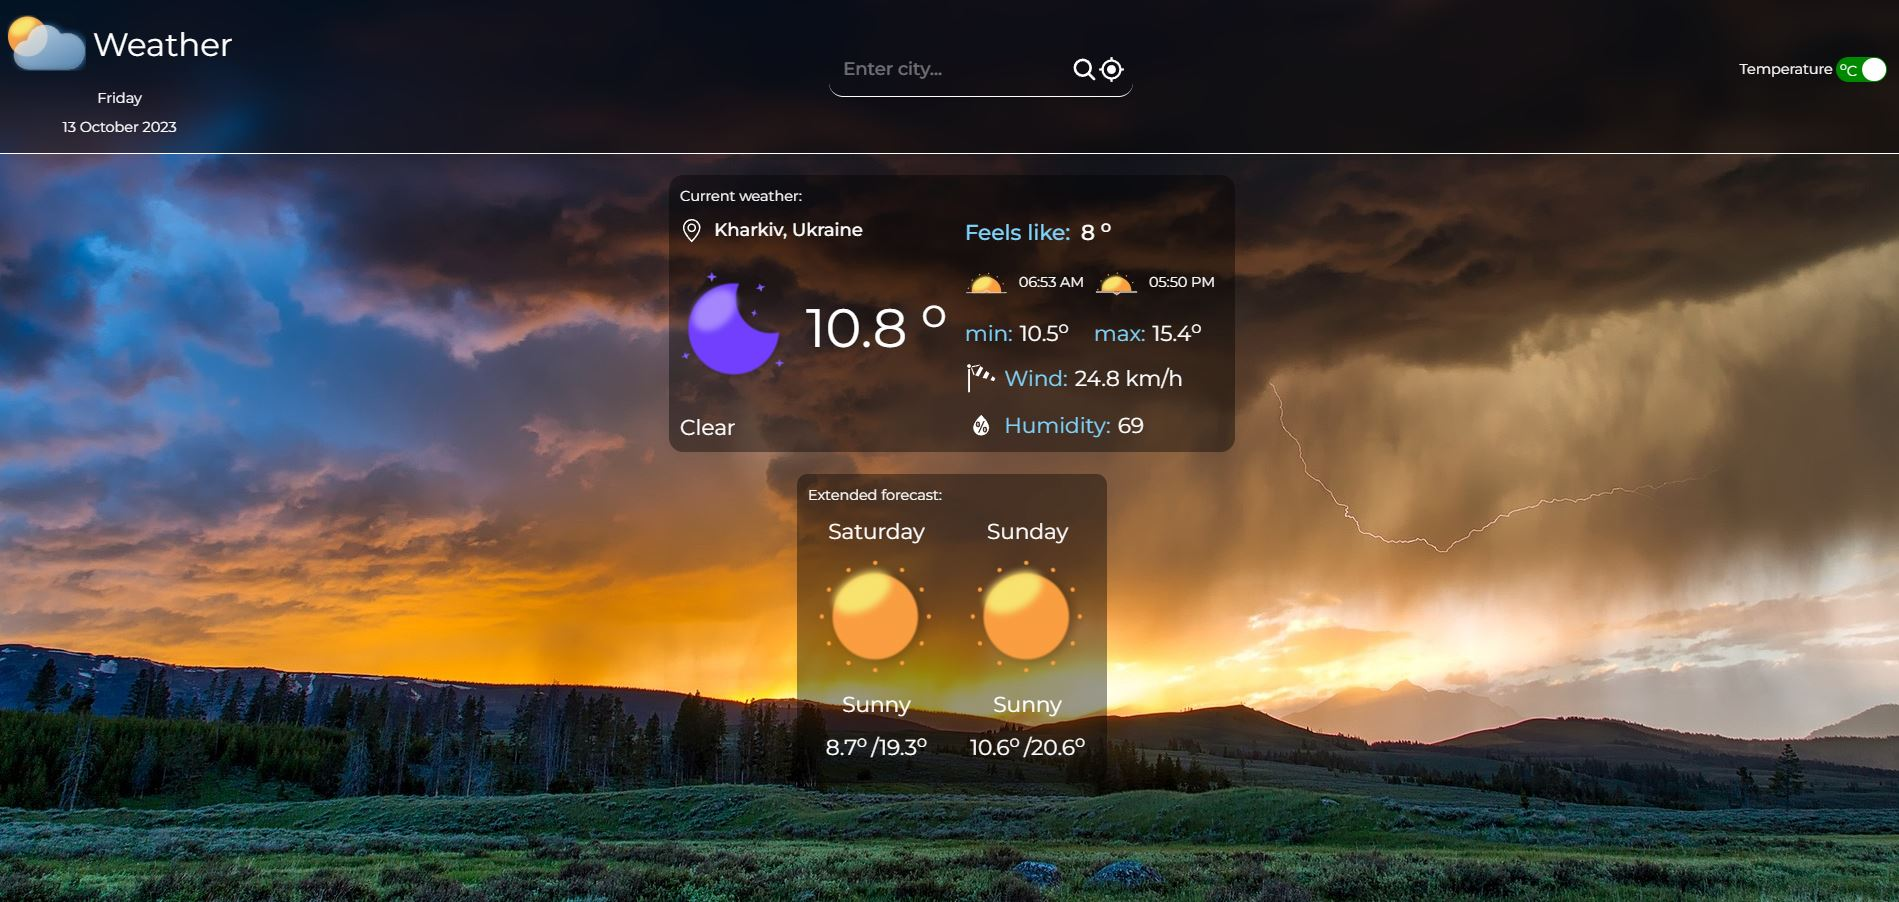
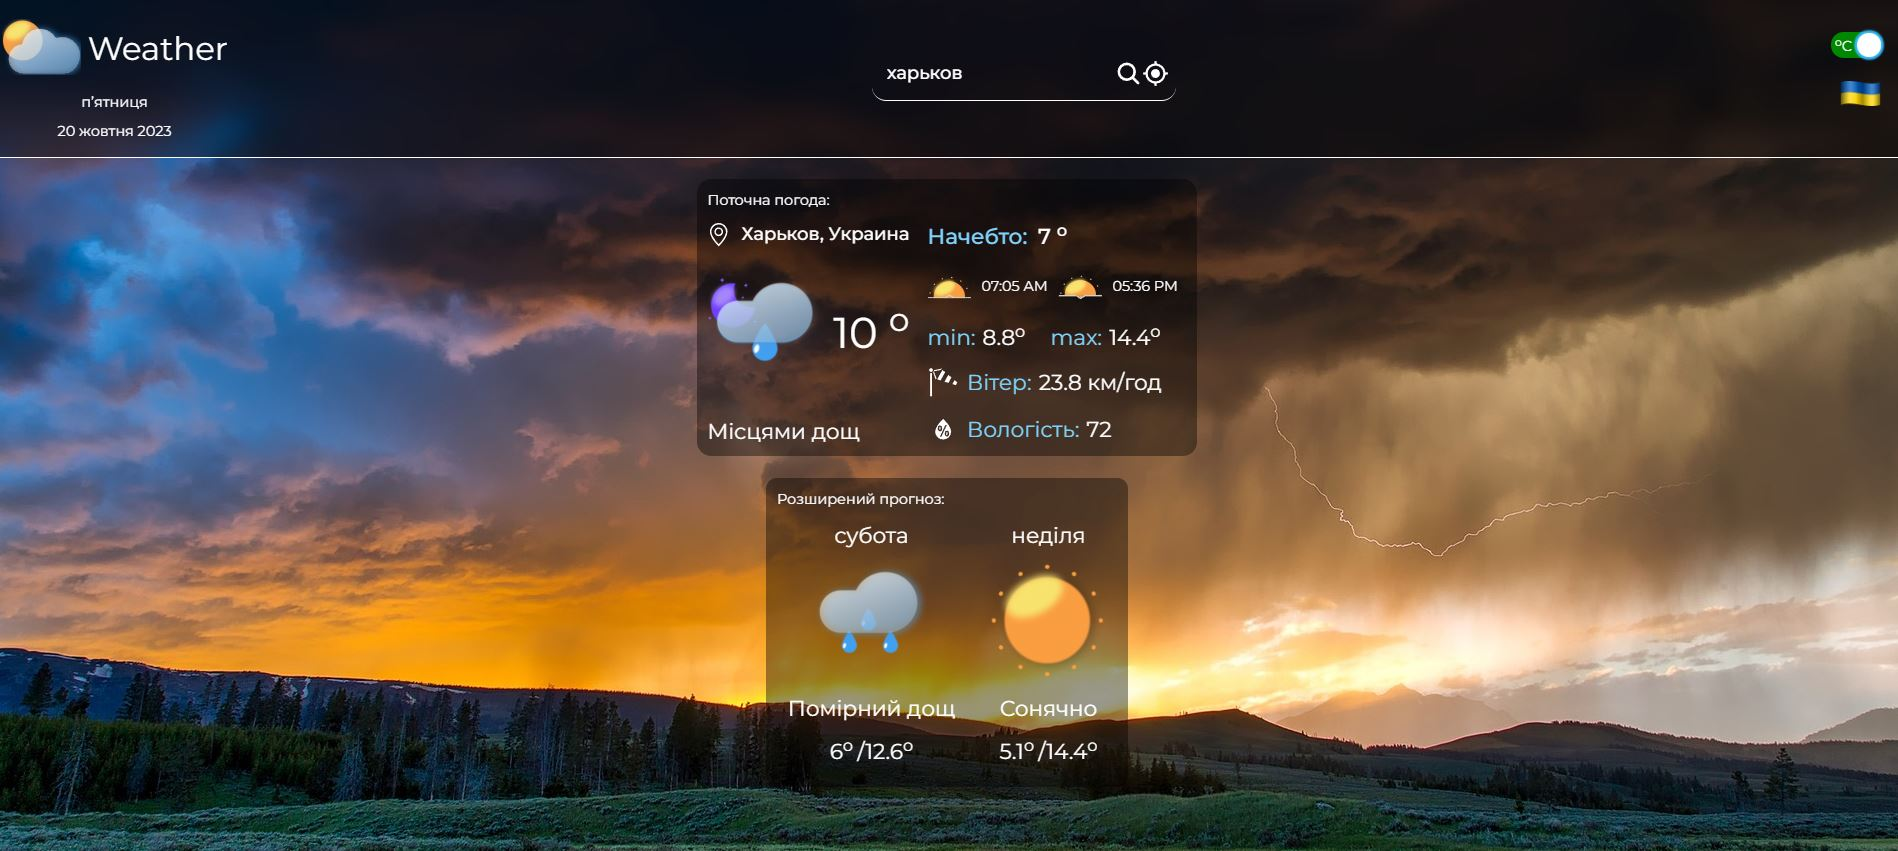
add localization

diff --git a/src/components/Current/Current.jsx b/src/components/Current/Current.jsx
@@ -17,6 +17,8 @@ import {
 
 import { getWeatherIcon } from "../../utils/getWeatherIcon";
 
+import { useTranslation } from "react-i18next";
+
 const animation = {
   hidden: { x: -100, opacity: 0 },
   visible: (custom) => ({
@@ -31,6 +33,8 @@ export default function Current() {
   const current = useSelector(SelectCurrent);
   const forecast = useSelector(SelectForecast);
   const isCelsius = useSelector(SelectIsCelsius);
+
+  const { t } = useTranslation();
 
   const { name, country } = location;
 
@@ -58,7 +62,7 @@ export default function Current() {
       custom={1}
       className="rounded-2xl flex flex-col max-w-[320px] sm:max-w-[640px] bg-black/40 text-white p-3"
     >
-      <h3>Current weather:</h3>
+      <h3>{t("current_title")}:</h3>
       <div className="flex flex-col pt-3 sm:flex-row gap-5 justify-between">
         <div className="flex flex-col items-start justify-between">
           <div className="flex gap-3 items-center">
@@ -85,7 +89,7 @@ export default function Current() {
         {/* другая сторона */}
         <div className="flex w-72 flex-col items-center sm:items-start gap-4">
           <div className="flex gap-3 text-2xl font-medium">
-            <p className="text-sky-300">Feels like:</p>
+            <p className="text-sky-300">{t("feels")}:</p>
             <p>
               {isCelsius ? feelslike_c : feelslike_f} <sup>o</sup>
             </p>
@@ -132,12 +136,15 @@ export default function Current() {
           </div>
           <div className="flex items-center  text-2xl gap-2">
             <GiWindsock size={36} />
-            <span className="text-sky-300">Wind: </span>
-            <p> {wind_kph} km/h</p>
+            <span className="text-sky-300">{t("wind")}: </span>
+            <p>
+              {" "}
+              {wind_kph} {t("km")}
+            </p>
           </div>
           <div className="flex items-center  text-2xl gap-2">
             <WiHumidity size={36} />{" "}
-            <span className="text-sky-300">Humidity: </span>
+            <span className="text-sky-300">{t("humidity")}: </span>
             <p>{humidity}</p>
           </div>
         </div>

diff --git a/src/components/Forecast/Forecast.jsx b/src/components/Forecast/Forecast.jsx
@@ -1,11 +1,14 @@
 import { useSelector } from "react-redux";
 import { SelectForecast } from "../../redux/weather/weatherSelectors";
 import { SelectIsCelsius } from "../../redux/setting/settingSelectors";
+import { SelectLang } from "../../redux/setting/settingSelectors";
 
 import weekDay from "../../utils/getWeekDay";
 import { forecastGetWeatherIcon } from "../../utils/forecastGetWeatherIcon";
 
 import { motion } from "framer-motion";
+
+import { useTranslation } from "react-i18next";
 
 const animation = {
   hidden: { x: 100, opacity: 0 },
@@ -19,7 +22,9 @@ const animation = {
 export default function Forecast() {
   const forecast = useSelector(SelectForecast);
   const isCelsius = useSelector(SelectIsCelsius);
+  const lang = useSelector(SelectLang);
   const newForecast = forecast.slice(1);
+  const { t } = useTranslation();
 
   const elements = newForecast.map(
     ({
@@ -36,7 +41,7 @@ export default function Forecast() {
         key={date}
         className="text-2xl max-w-full flex flex-col gap-4 items-center border-white first:border-b-[1px] sm:max-w-xs sm:first:border-b-0 p-3"
       >
-        <p>{weekDay(date)}</p>
+        <p>{weekDay(date, lang)}</p>
         <div
           className=" w-32 h-32"
           style={{
@@ -63,7 +68,7 @@ export default function Forecast() {
       custom={1}
       className=" bg-black/40 text-white p-3 rounded-xl"
     >
-      <h3>Extended forecast:</h3>
+      <h3>{t("forecast_title")}:</h3>
       <ul className="flex flex-col max-w-xs sm:max-w-full sm:flex-row sm:gap-4">
         {elements}
       </ul>

diff --git a/src/components/Header/SearchForm/SearchForm.jsx b/src/components/Header/SearchForm/SearchForm.jsx
@@ -9,15 +9,20 @@ import findCityByIp from "../../../api/findCityByIp";
 
 import CityList from "../../CityList/CityList";
 
+//localization
+import { useTranslation } from "react-i18next";
+
 export default function SearchForm() {
   const [q, setQ] = useState("");
   const [isHover, setIsHover] = useState(false);
   const dispatch = useDispatch();
 
+  const { t } = useTranslation();
+
   const handlerSubmit = (e) => {
     e.preventDefault();
     if (!q) {
-      toast.warn("Please, enter name of city...");
+      toast.warn(`{t("header.warn")}`);
     }
     dispatch(setQuery(q));
     setQ("");
@@ -46,7 +51,7 @@ export default function SearchForm() {
         name="query"
         value={q}
         type="text"
-        placeholder="Enter city..."
+        placeholder={t("header_placeholder")}
         autoComplete="off"
         className="w-full outline-0 bg-transparent py-2 px-2 text-xl  text-white font-medium placeholder:text-white/40"
       />
@@ -67,7 +72,7 @@ export default function SearchForm() {
         <MdOutlineMyLocation size={30} />
         {isHover && (
           <div className=" z-10 p-2 w-48 rounded-lg bg-orange-300 text-black absolute top-10 right-[35px]">
-            <p>click for automatic location detection</p>
+            <p>{t("header_hover")}</p>
           </div>
         )}
       </button>

diff --git a/src/index.js b/src/index.js
@@ -1,5 +1,6 @@
 import React from "react";
 import ReactDOM from "react-dom/client";
+import { Suspense } from "react";
 import "./index.css";
 
 import { ToastContainer } from "react-toastify";
@@ -12,12 +13,28 @@ import { store } from "./redux/store";
 import { PersistGate } from "redux-persist/integration/react";
 import { persistor } from "./redux/store";
 
+//localization
+import i18n from "i18next";
+import { initReactI18next } from "react-i18next";
+import HttpApi from "i18next-http-backend";
+
+i18n
+  .use(initReactI18next)
+  .use(HttpApi)
+  .init({
+    supportedLngs: ["en", "uk", "ru"],
+    fallbackLng: localStorage.getItem("lang") || "en",
+    // debug: true,
+  });
+
 const root = ReactDOM.createRoot(document.getElementById("root"));
 root.render(
   <React.StrictMode>
     <Provider store={store}>
       <PersistGate loading={null} persistor={persistor}>
-        <App />
+        <Suspense fallback="Loading...">
+          <App />
+        </Suspense>
       </PersistGate>
       <ToastContainer
         position="top-center"

diff --git a/src/components/ChangeLang/ChangeLang.jsx b/src/components/ChangeLang/ChangeLang.jsx
@@ -5,6 +5,8 @@ import { getLangIcons } from "../../utils/getLangIcon";
 import { changeLang } from "../../redux/setting/settingSlice";
 import langIcons from "../../data/langIcons";
 
+import i18n from "i18next";
+
 export default function ChangeLang() {
   const [isOpen, setIsOpen] = useState(false);
   const lang = useSelector(SelectLang);
@@ -12,11 +14,20 @@ export default function ChangeLang() {
   const dispatch = useDispatch();
   const filteredIcons = langIcons.filter((item) => item.lang !== lang);
 
+  const changeLanguageHandler = (lang) => {
+    i18n.changeLanguage(lang);
+    localStorage.setItem("lang", lang);
+  };
+
   const elements = filteredIcons.map(({ id, lang, icon }) => (
     <li
       key={id}
       className="w-12 h-12 cursor-pointer"
-      onClick={() => dispatch(changeLang(lang), setIsOpen(false))}
+      onClick={() => {
+        dispatch(changeLang(lang));
+        setIsOpen(false);
+        changeLanguageHandler(lang);
+      }}
     >
       <img src={icon} alt="lang icon" />
     </li>

diff --git a/src/components/Date/Date.jsx b/src/components/Date/Date.jsx
@@ -1,8 +1,18 @@
 import format from "date-fns/format";
+import { useSelector } from "react-redux";
+import { SelectLang } from "../../redux/setting/settingSelectors";
+import langNormalize from "../../utils/langNormalize";
 
 export default function DateWiget() {
-  const weekDay = format(new Date(), "EEEE");
-  const date = format(new Date(), "d MMMM yyyy");
+  const lang = useSelector(SelectLang);
+  const local = langNormalize(lang);
+
+  const weekDay = format(new Date(), "EEEE", {
+    locale: local,
+  });
+  const date = format(new Date(), "d MMMM yyyy", {
+    locale: local,
+  });
   return (
     <div className="flex flex-col gap-2 items-center text-white">
       <p>{weekDay}</p>

diff --git a/src/utils/langNormalize.js b/src/utils/langNormalize.js
@@ -1,0 +1,14 @@
+import { enGB, ru, uk } from "date-fns/locale";
+
+const langs = [
+  { oldLang: "en", newLang: enGB },
+  { oldLang: "ru", newLang: ru },
+  { oldLang: "uk", newLang: uk },
+];
+
+const langNormalize = (lang) => {
+  const [{ newLang }] = langs.filter((item) => item.oldLang === lang);
+  return newLang;
+};
+
+export default langNormalize;

diff --git a/src/utils/getWeekDay.js b/src/utils/getWeekDay.js
@@ -1,7 +1,11 @@
 import format from "date-fns/format";
+import langNormalize from "../utils/langNormalize";
 
-const weekDay = (data) => {
-  return format(new Date(data), "EEEE");
+const weekDay = (data, lang) => {
+  const local = langNormalize(lang);
+  return format(new Date(data), "EEEE", {
+    locale: local,
+  });
 };
 
 export default weekDay;

diff --git a/README.md b/README.md
@@ -2,7 +2,7 @@
 
 ![screen](./public/preview.JPG)
 
-Этот Pet-проект написан с помощью React, Redux, redux-persist, axios, tailwindcss, framer-motion и др.
+Этот мультиязычный Pet-проект написан с помощью React, Redux, redux-persist, axios, tailwindcss, framer-motion, i18n и др.
 
 [Погодный API - www.weatherapi.com](https://www.weatherapi.com/)
 
